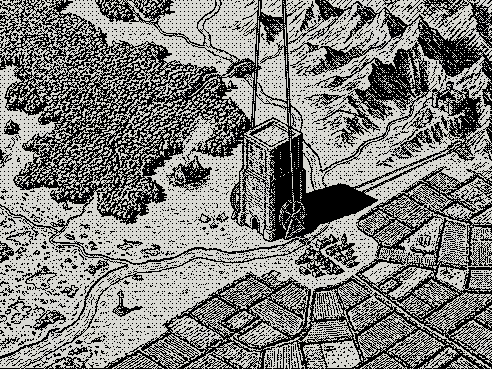
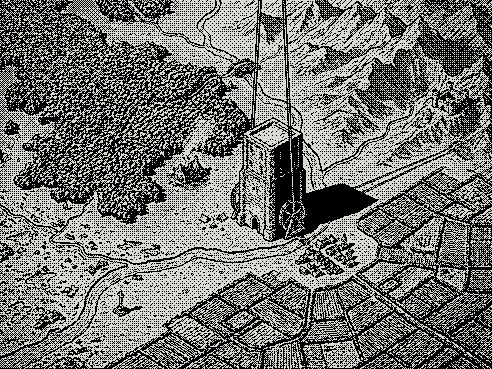
082 phase-1e executed — vendor sync 0.110.0, plugin pointer -> 9ca98d0, dojo run 0058 33/33 PASS

diff --git a/worldd/plans/082-floor-maps/mock-map/index.html b/worldd/plans/082-floor-maps/mock-map/index.html
@@ -173,7 +173,7 @@
     <div class="mapwrap">
       <img src="map_001_492x369.png" alt="Map of Floor 1 — the Fencerows"
            width="492" height="369">
-      <div class="mk plain" style="left:56%; top:40%">[1] GATE
+      <div class="mk plain" style="left:56%; top:50%">[1] GATE
         <span class="tip">The elevator between floors — ride up or down.</span></div>
       <div class="mk plain" style="left:63%; top:69%">[2] ROOTHOLLOW
         <span class="tip">Down to Roothollow — shops, forge, bank.</span></div>

diff --git a/worldd/plans/082-floor-maps/mock-map/map_gen.py b/worldd/plans/082-floor-maps/mock-map/map_gen.py
@@ -55,7 +55,9 @@ img = ImageOps.autocontrast(img, cutoff=1)   # keep the gradient ramps wide
 # The model paints on light-grey paper; the game is ink on black. Gamma
 # pushes the flat mid-grey ground down to sparse dither while lit faces,
 # the stream and the glow pools stay bright.
-img = img.point(lambda p: int(255 * (p / 255) ** 1.45))
+# phase-1e: the raw carries painted grey washes now — a gentle 1.15
+# keeps them as halftone shading instead of crushing to white/black.
+img = img.point(lambda p: int(255 * (p / 255) ** 1.15))
 
 out = Image.new("RGBA", (W, H), (0, 0, 0, 255))
 po = out.load()

diff --git a/dojo/results/0058-082-floormap-1e-2026-08-26/summary.md b/dojo/results/0058-082-floormap-1e-2026-08-26/summary.md
@@ -1,0 +1,25 @@
+# Dojo run 0058 — 082 phase-1e: chip ink + tag drop + shaded dither
+
+- **Date:** 2026-08-26
+- **Scenario:** `luna/dojo/tests/082-floor-maps/scenario.md` (walkthrough.mjs, phase-1e revision)
+- **Environment:** local worldd (uvicorn :8600), Postgres 16 docker :5434,
+  vendor plugin = 0.110.0, monorepo `bd6c256` (phase-1e changes
+  uncommitted at run time; committed immediately after)
+- **Player:** web:dojomap211992, seeded floor 1, warrior L3
+- **Verdict:** **PASS — 33/33 checks** (one new check vs 0057)
+
+## What phase-1e changed (verified this run)
+
+| Change | Check | Evidence |
+|--------|-------|----------|
+| Chip text bright white, [N] gold | S4 (new) | `{ink:"rgb(251, 251, 247)", num:"rgb(245, 184, 37)"}` |
+| GATE tag dropped onto the structure's face (56,40 → 56,50) | screenshots | 03-map-on.png |
+| Shaded dither — painted grey washes in the raw + gamma 1.45 → 1.15 keep midtone halftone instead of stark white/black | screenshots | 03-map-on.png |
+
+First run of the night 31/32: the new `mknum` span broke the
+walkthrough's label reader (it read only the chip's first node) —
+harness fix, re-run 33/33.
+
+## Artifacts
+
+`screenshots/01…10`, `checks.json`.

diff --git a/worldd/plans/082-floor-maps/level001-plan/phase-1e/PLAN.md b/worldd/plans/082-floor-maps/level001-plan/phase-1e/PLAN.md
@@ -39,3 +39,24 @@ phase-1d; dojo re-walk PASS.
 
 Labs flag off is the live mitigation. Full revert: revert phase-1e
 commits (asset included), vendor re-sync.
+
+## Execution status
+
+Executed 2026-08-26. Shipped in plugin 0.110.0; vendor synced.
+
+- **Shading:** gamma alone could not soften the phase-1d asset — the
+  raw was pure ink/paper with no midtones to keep. One Gemini pass
+  painted grey washes over the same composition
+  (`raw_map_shaded.png` = new `raw_map.png`); `map_gen.py` gamma
+  1.45 → 1.15 keeps them as halftone.
+- **Chips:** `.mk` ink TEXT → BRIGHT; `[N]` wrapped in
+  `<span class="mknum">` in GOLD, INK on hover. GATE anchor
+  (56,40) → (56,50) — the tag sits on the structure's face
+  (engine + mock).
+- **Tests:** `test_082_floormap.py` 11/11. No engine-logic change —
+  full suites at baseline this same day (phase-1c).
+- **Dojo:** run 0058 (`dojo/results/0058-082-floormap-1e-2026-08-26/`)
+  **33/33 PASS** (new check: chip ink bright white + gold number).
+  First pass 31/32 — the mknum span broke the walkthrough's label
+  reader; harness fix, re-run green.
+- Deploy not requested this phase.
